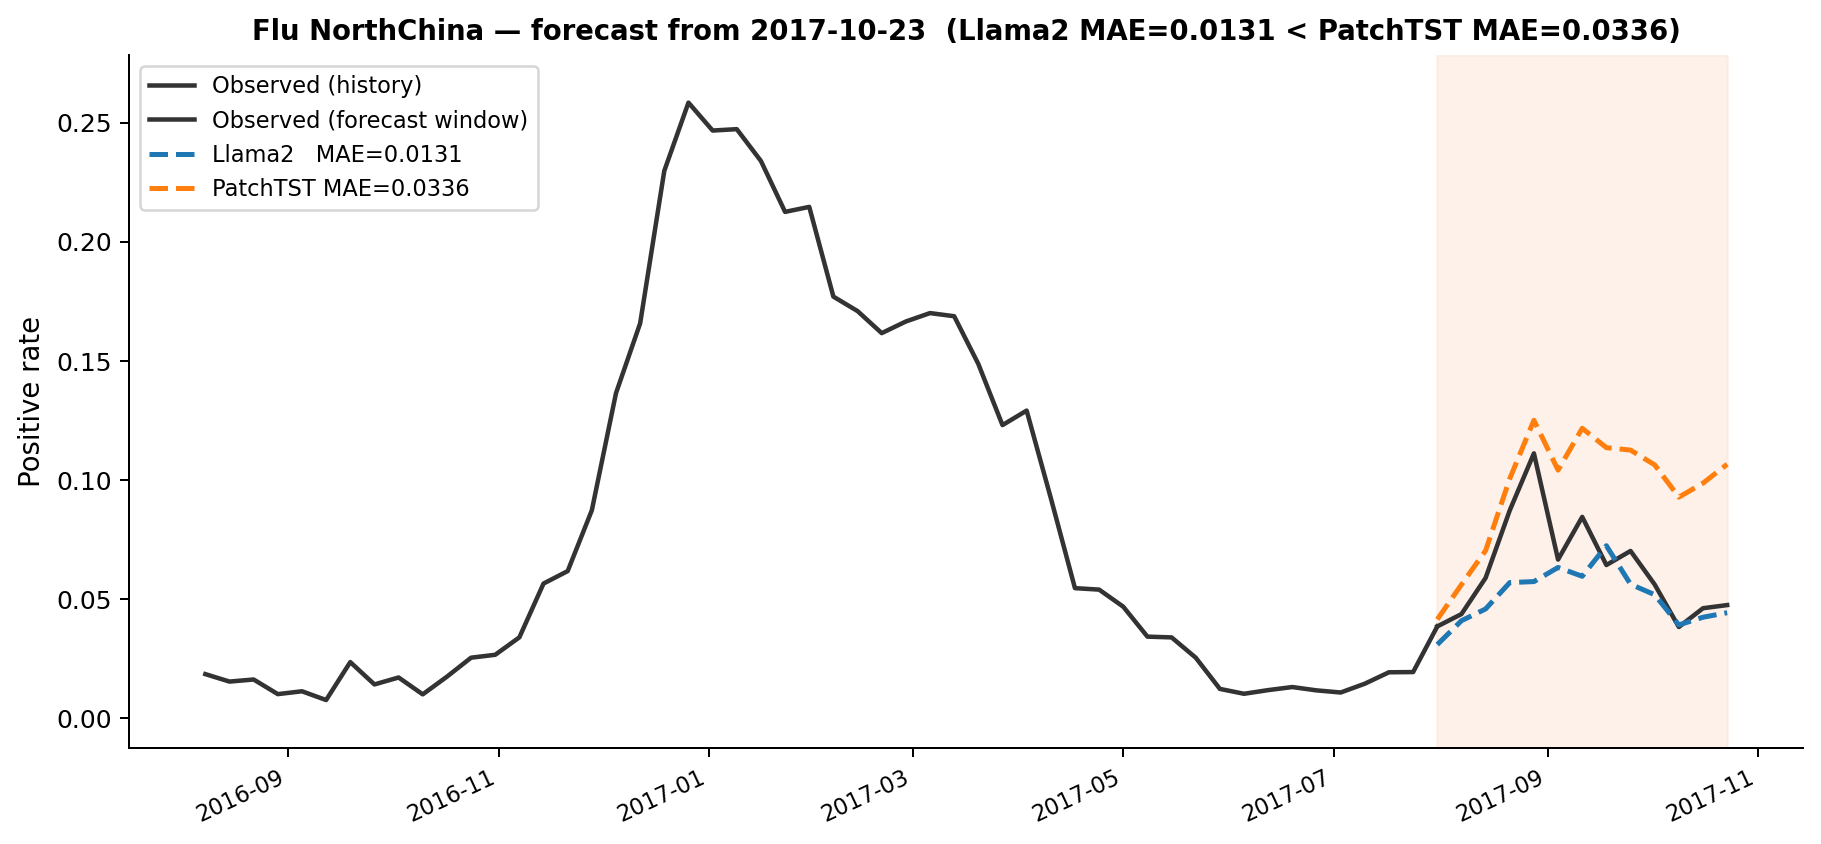
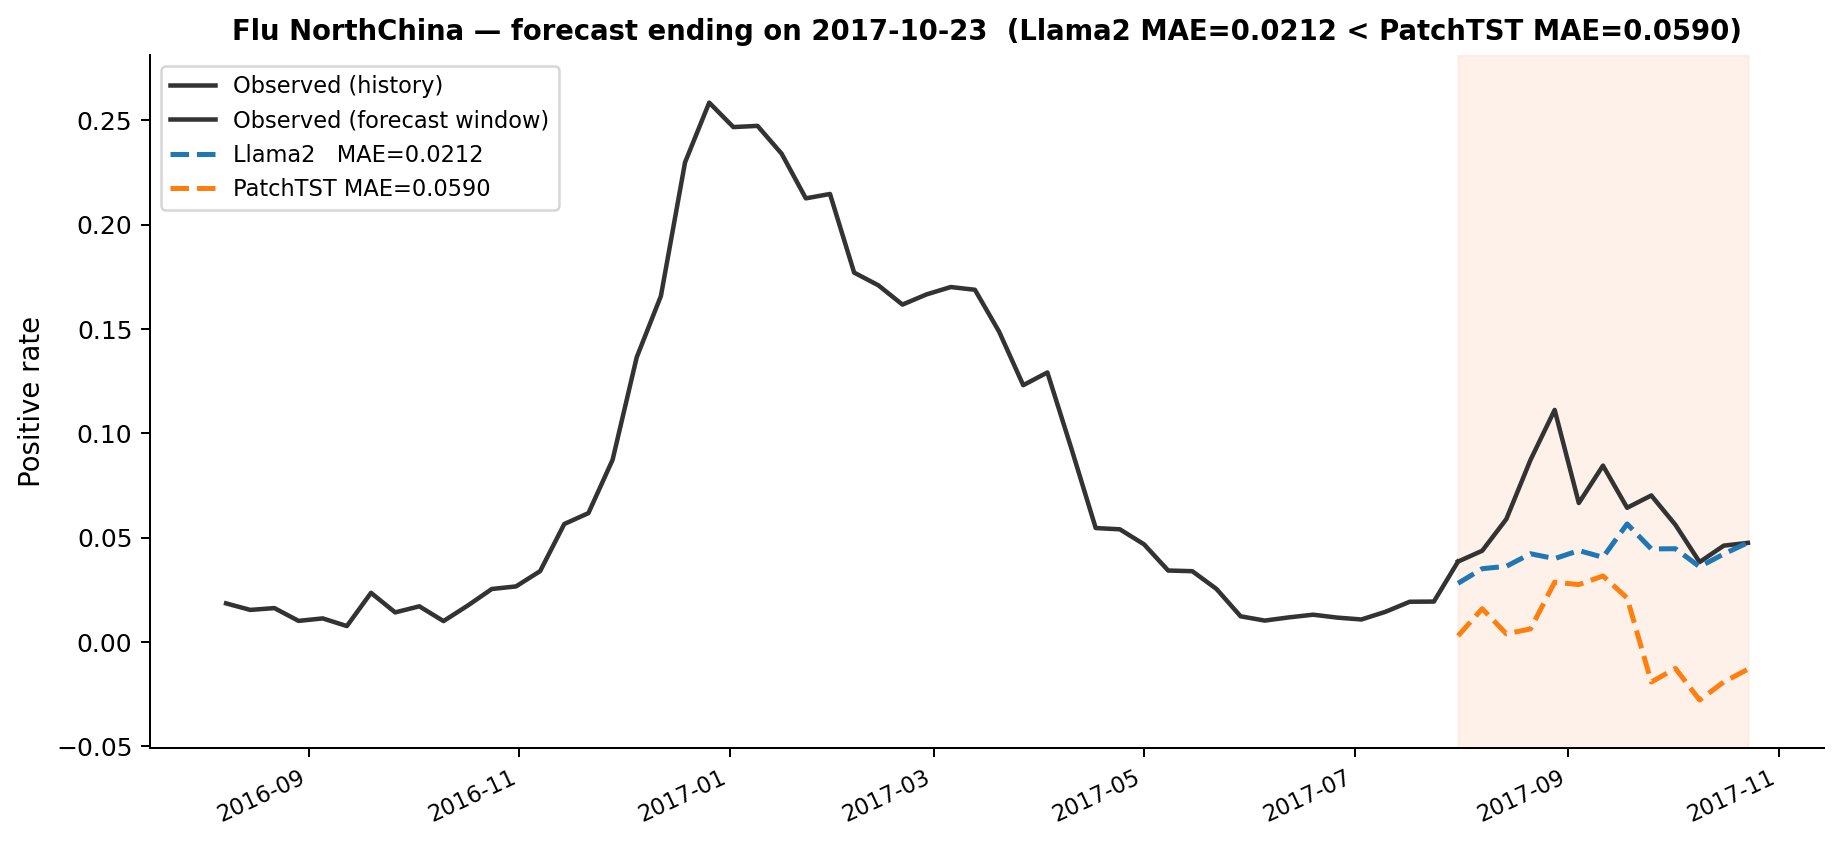
data loader update --important!

diff --git a/data_provider/data_loader.py b/data_provider/data_loader.py
@@ -240,9 +240,23 @@ class Dataset_Custom(Dataset):
         self.root_path = root_path
         self.data_path = data_path
         self.__read_data__()
-        
+
         self.enc_in = self.data_x.shape[-1]
         self.tot_len = len(self.data_x) - self.seq_len - self.pred_len + 1
+
+    def _get_borders(self, total_len):
+        """Split [0, total_len) into train/val/test borders strictly in time order.
+
+        total_len is the usable dataset length (already truncated at test_end_date
+        when one is given), so train/val can never see rows beyond the cutoff.
+        """
+        num_train = int(total_len * 0.7)
+        num_test = int(total_len * 0.2)
+        num_vali = total_len - num_train - num_test
+
+        border1s = [0, num_train - self.seq_len, total_len - num_test - self.seq_len]
+        border2s = [num_train, num_train + num_vali, total_len]
+        return border1s, border2s
 
     def __read_data__(self):
         self.scaler = StandardScaler()
@@ -257,25 +271,22 @@ class Dataset_Custom(Dataset):
         df_raw.columns = cols
 
         cols.remove(self.target)
-        cols.remove('date') 
+        cols.remove('date')
         df_raw = df_raw[['date'] + cols + [self.target]]
 
-        num_train = int(len(df_raw) * 0.7)
-        num_test = int(len(df_raw) * 0.2)
-        num_vali = len(df_raw) - num_train - num_test
-
-        # Optionally cut the test window at a specific date instead of the file end
+        # Optionally cut the whole usable range at a specific date instead of the file end,
+        # then split train/val/test strictly within that range so no split can see data
+        # beyond test_end_date.
         if self.test_end_date is not None:
             dates = pd.to_datetime(df_raw['date'])
             mask = dates <= pd.Timestamp(self.test_end_date)
             if not mask.any():
                 raise ValueError(f"test_end_date '{self.test_end_date}' is before the first row in the dataset.")
-            test_end_idx = int(mask.sum())   # rows up to and including the cutoff date
+            total_len = int(mask.sum())   # rows up to and including the cutoff date
         else:
-            test_end_idx = len(df_raw)
+            total_len = len(df_raw)
 
-        border1s = [0, num_train - self.seq_len, test_end_idx - num_test - self.seq_len]
-        border2s = [num_train, num_train + num_vali, test_end_idx]
+        border1s, border2s = self._get_borders(total_len)
         border1 = border1s[self.set_type]
         border2 = border2s[self.set_type]
         

diff --git a/main.py b/main.py
@@ -293,19 +293,18 @@ for ii in range(args.itr):
     print(f"GPU Memory Usage: Allocated Start {gpu_mem_start_alloc:.2f} MB, End {gpu_mem_end_alloc:.2f} MB")
     print(f"GPU Memory Usage: Reserved Start {gpu_mem_start_reserved:.2f} MB, End {gpu_mem_end_reserved:.2f} MB")
 
+    if args.write_model and ii == args.itr - 1:
+        # save_path = './PretrainModel/' + args.model_id.split('_')[0] + '_' + args.model_id.split('_')[1]
+        save_path = './PretrainModel/' + args.model_id.split('_')[0]
+        if not os.path.exists(save_path):
+            os.makedirs(save_path)
+        torch.save(model.state_dict(), save_path + '/' + args.model + '-' + 'temp.pth')
+
     del model
     del model_optim
     del test_loader
     gc.collect()
     torch.cuda.empty_cache()
-
-
-if args.write_model:
-    # save_path = './PretrainModel/' + args.model_id.split('_')[0] + '_' + args.model_id.split('_')[1]
-    save_path = './PretrainModel/' + args.model_id.split('_')[0] 
-    if not os.path.exists(save_path):
-        os.makedirs(save_path)
-    torch.save(model.state_dict(), save_path + '/' + args.model + '-' + 'temp.pth')
 
 mses = np.array(mses)
 maes = np.array(maes)

diff --git a/compare_llama2_vs_patchtst.py b/compare_llama2_vs_patchtst.py
@@ -176,7 +176,7 @@ def plot_date(date, llama2_files, patchtst_files, raw_ref, scale, figure_dir):
 
     ax.set_ylabel("Positive rate", fontsize=11)
     ax.set_title(
-        f"Flu NorthChina — forecast from {date}  "
+        f"Flu NorthChina — forecast ending on {date}  "
         f"(Llama2 MAE={l_mae:.4f} < PatchTST MAE={p_mae:.4f})",
         fontsize=11, fontweight="bold",
     )
